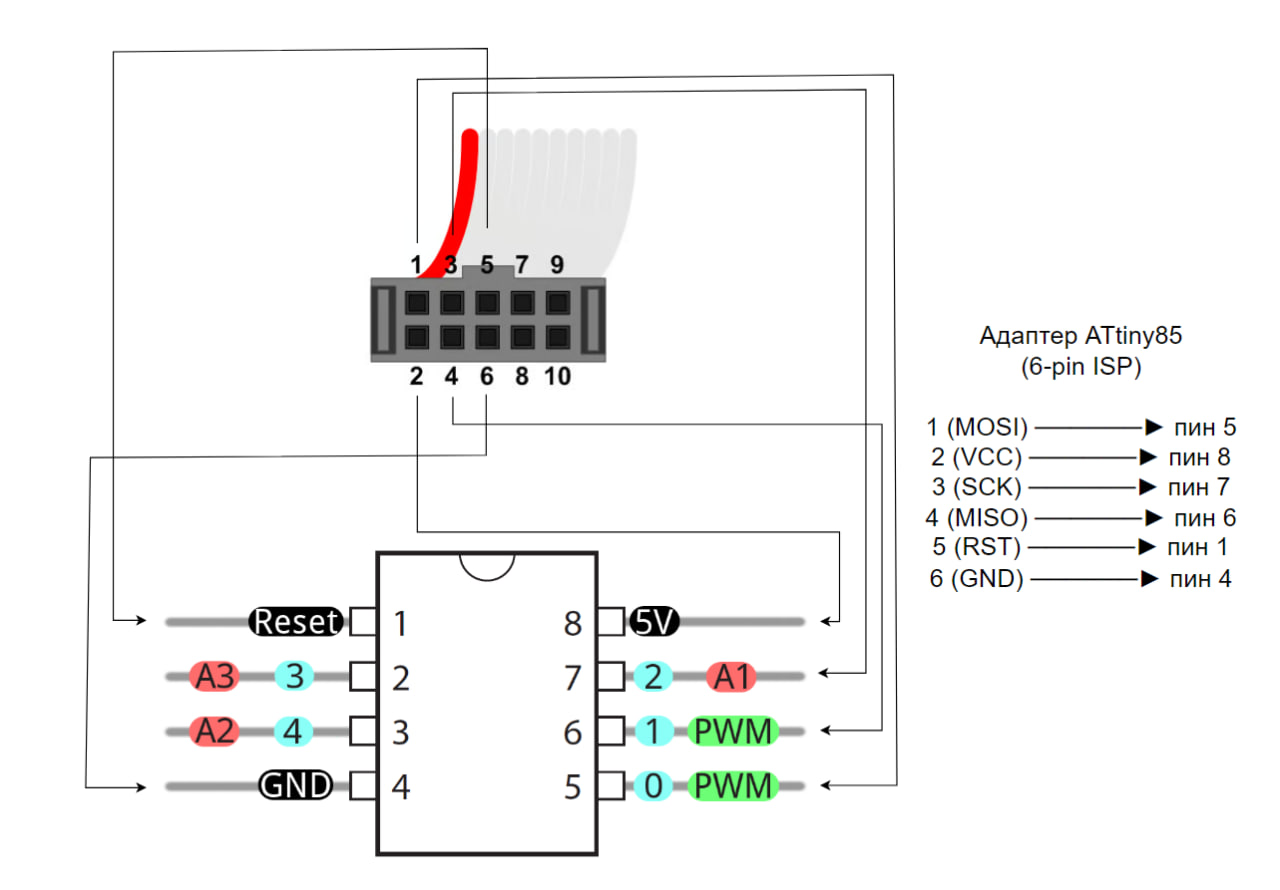
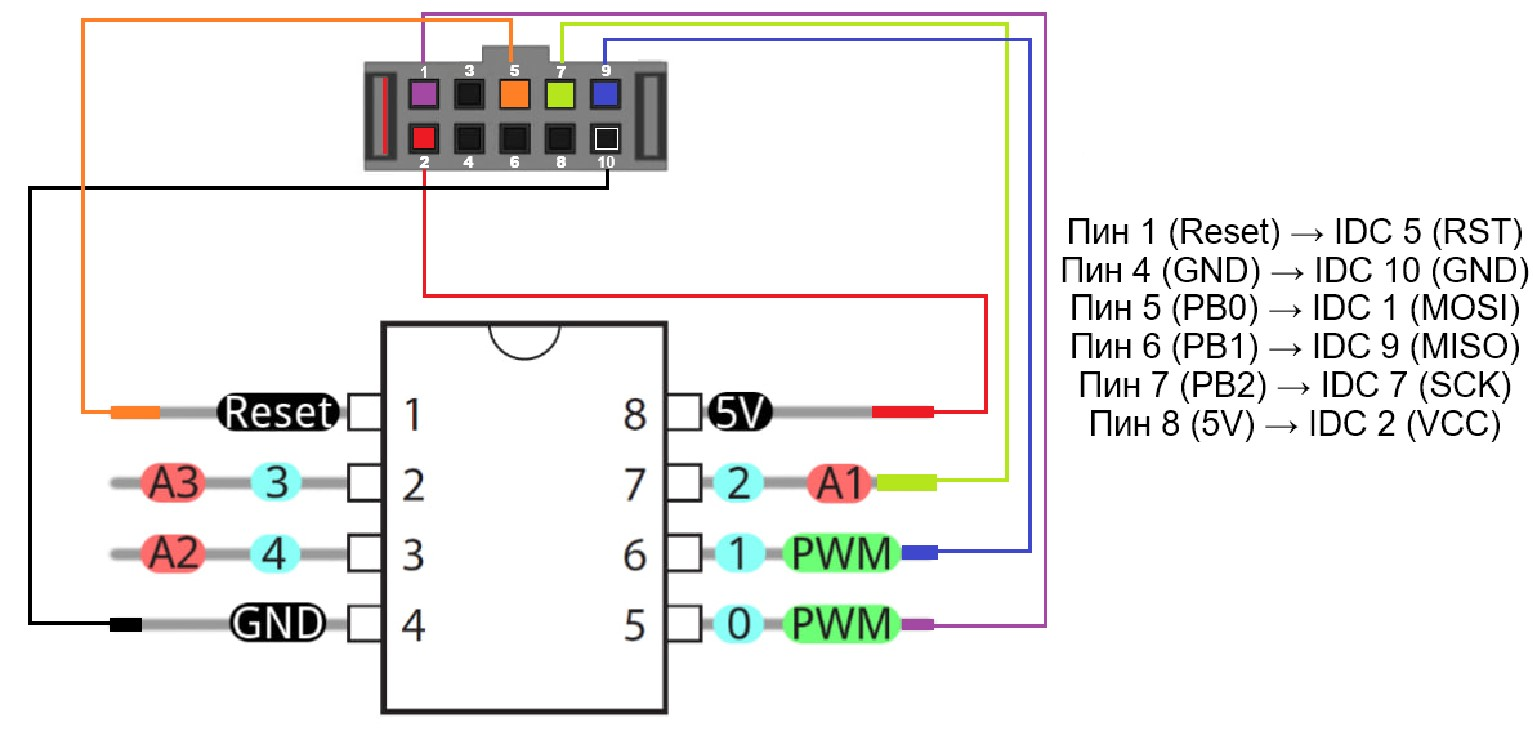
Reformat 1st lab, fixed scheme

Changed region(s): [[0.0, 0.0, 1.0, 0.9932]]

diff --git a/simple-blink/blink.c b/simple-blink/blink.c
@@ -2,11 +2,11 @@
 #include <util/delay.h>
 
 int main(void) {
-    DDRB |= (1 << PB0);
+    DDRB |= (1 << PB4);
     while(1) {
-        PORTB |= (1 << PB0);
+        PORTB |= (1 << PB4);
         _delay_ms(500);
-        PORTB &= ~(1 << PB0);
+        PORTB &= ~(1 << PB4);
         _delay_ms(500);
     }
 }

diff --git a/simple-blink/README.md b/simple-blink/README.md
@@ -11,6 +11,7 @@ First bare-metal ATtiny85 project — LED blink in pure C using avr-gcc and USBa
 ## Scheme
 
 ![](./scheme.jpg)
+![](./image1.jpg)
 
 ## Dependencies
 